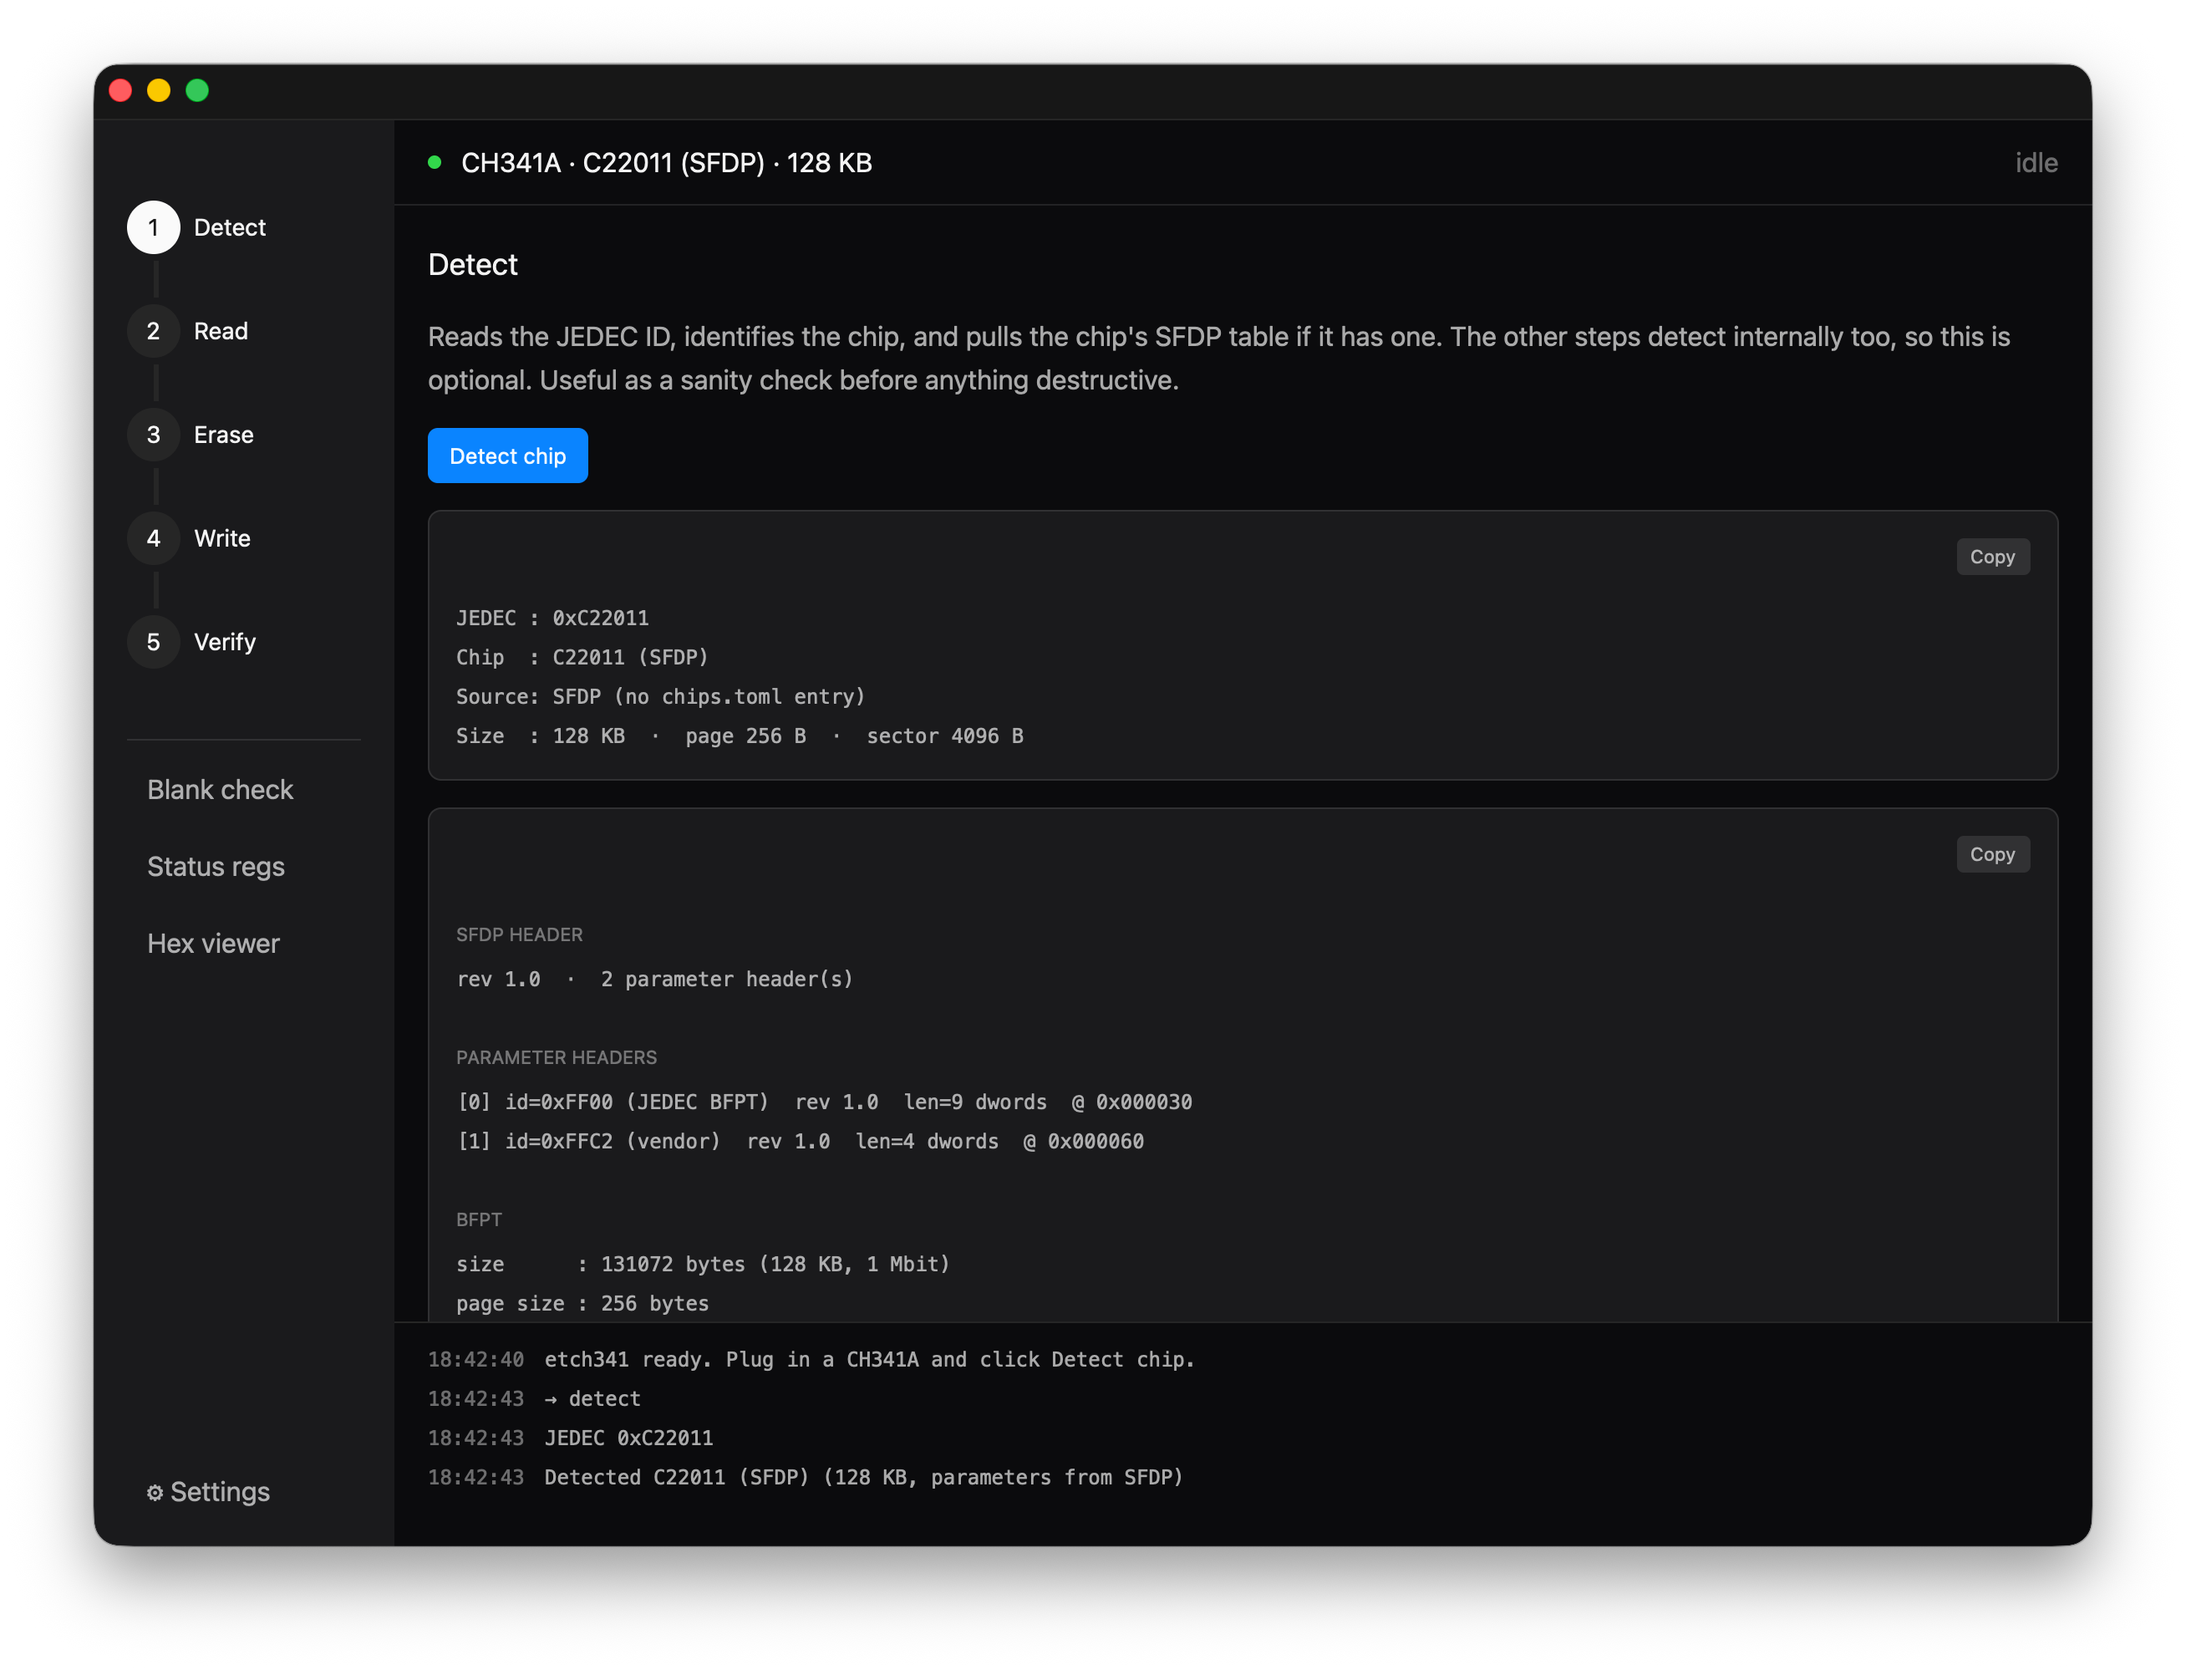
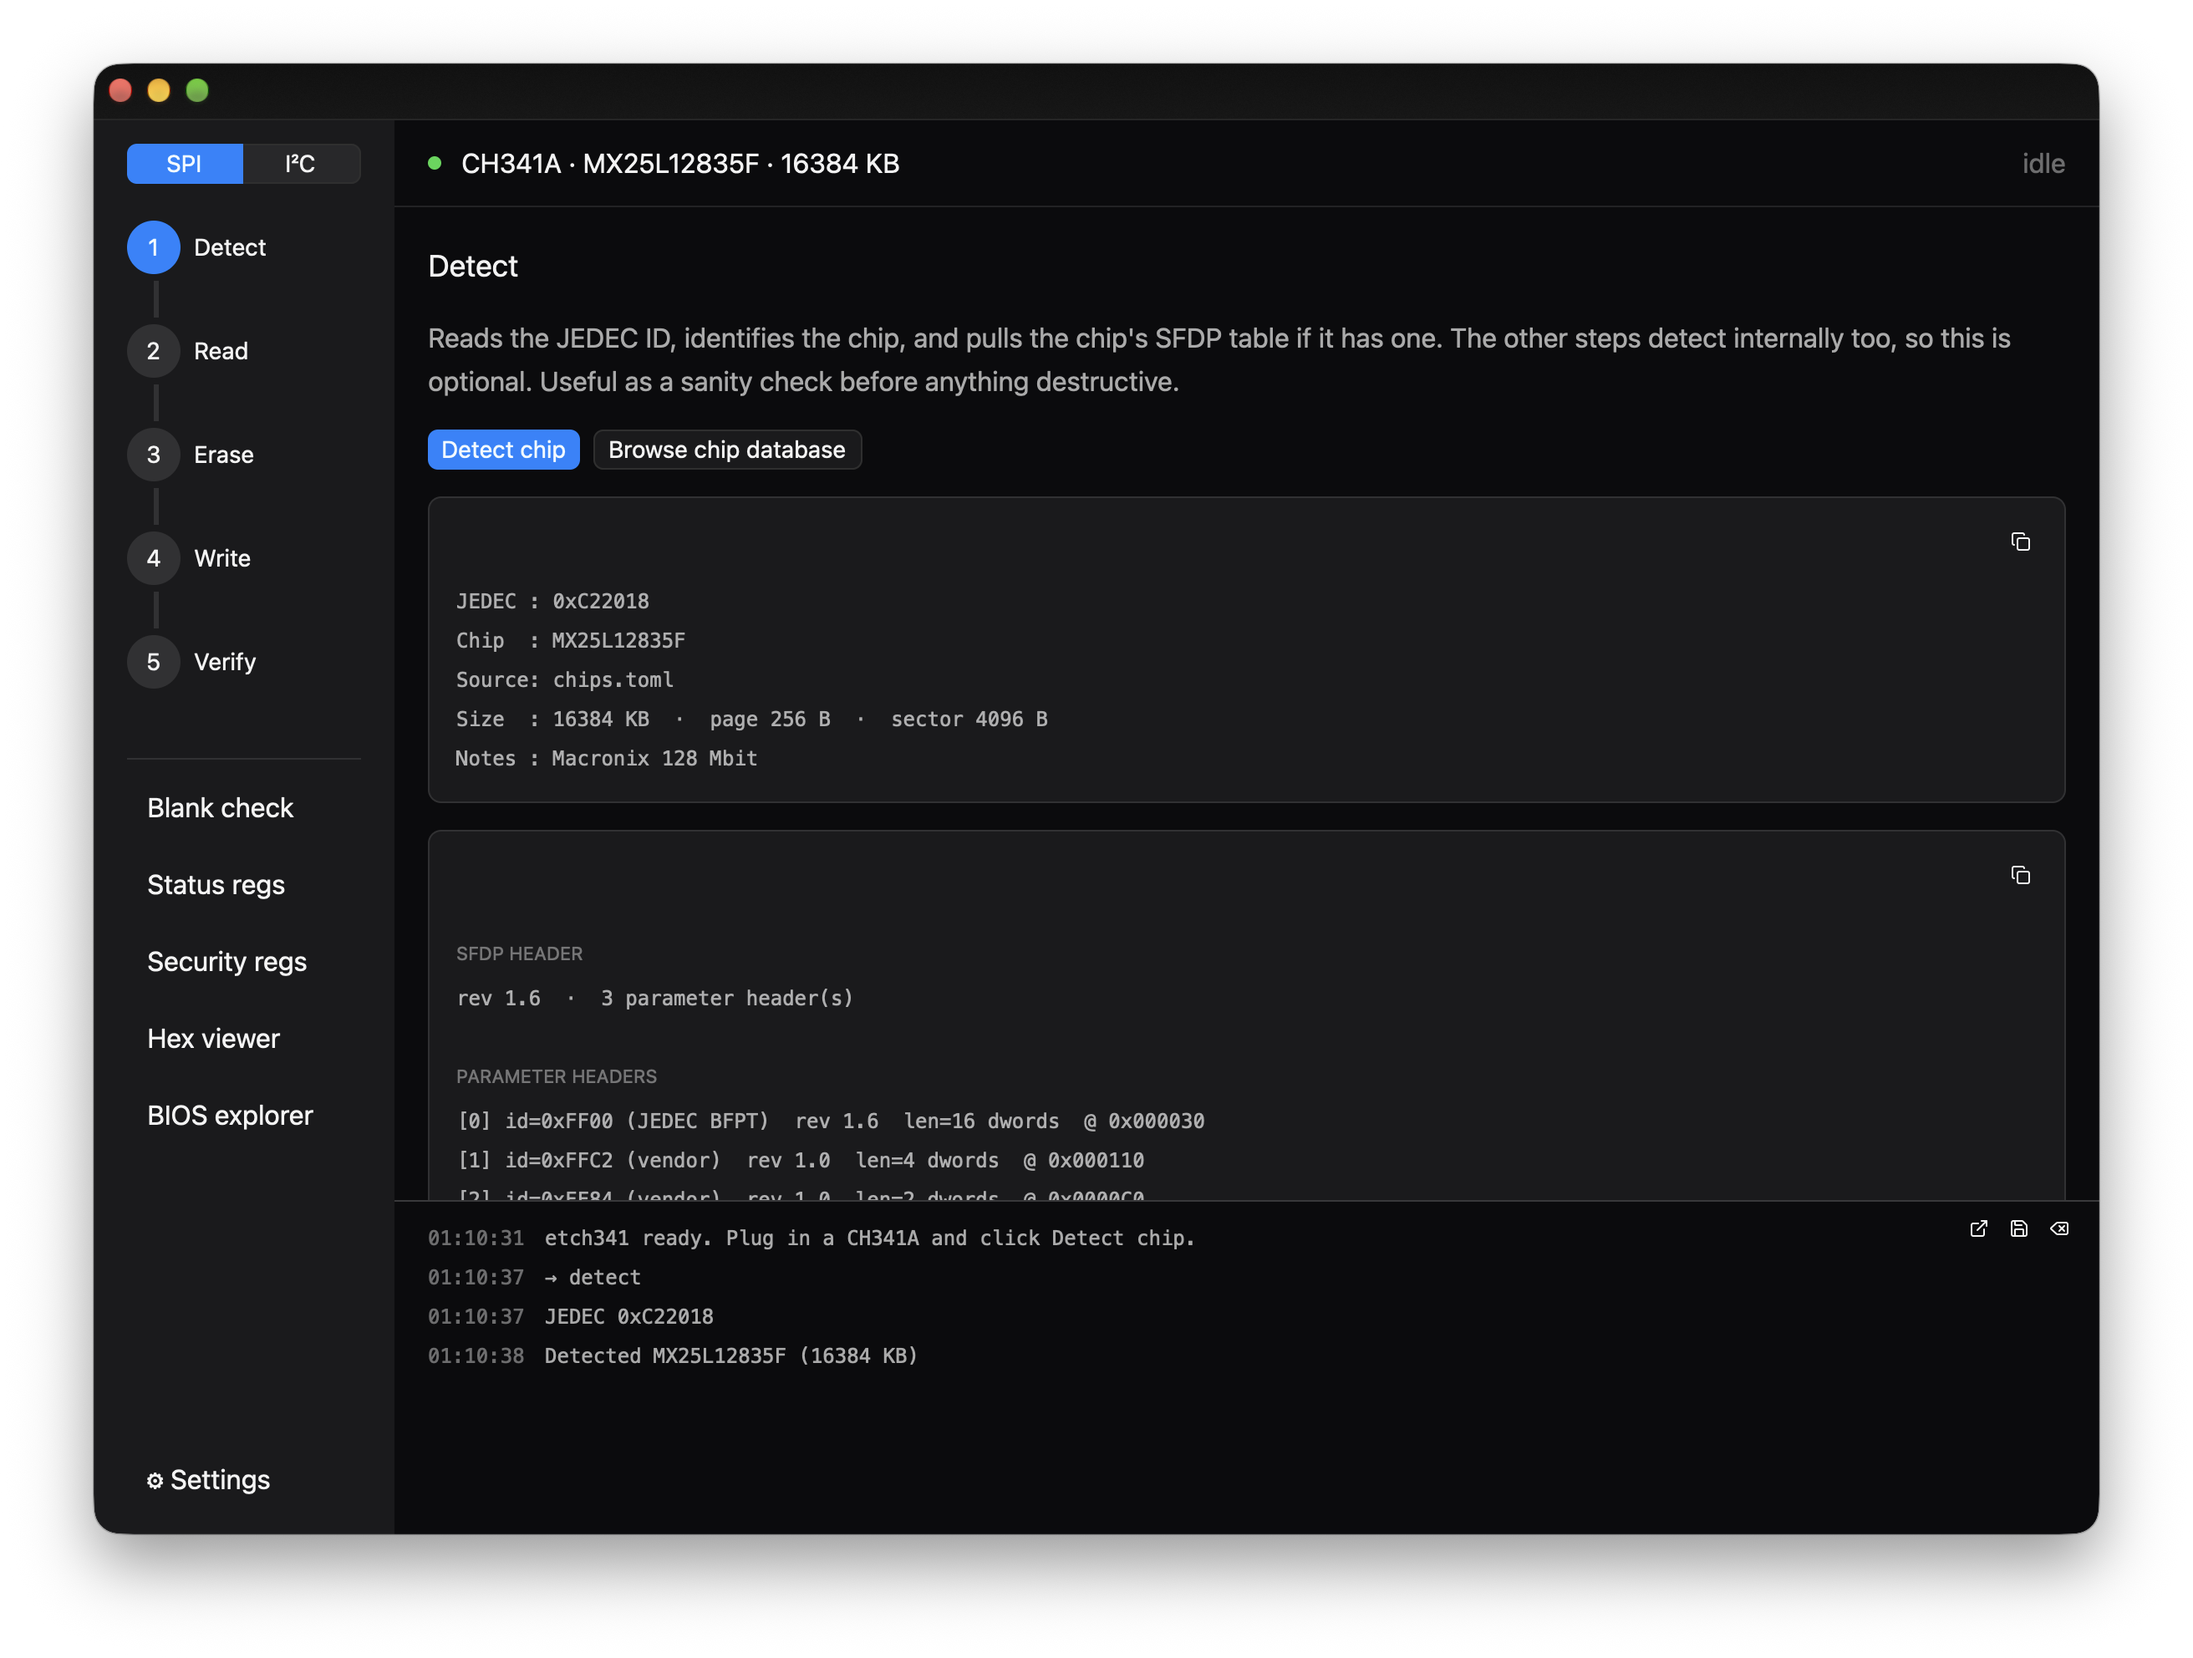
docs: new screenshots for the GPUI Kit look
Replaces the README / GUI-docs hero (docs/public/etch341.png) with the
current Detect pane and adds five shots to the GUI docs: a read in
progress with Cancel, the chip database table, the BIOS explorer, the
I²C Write pane and Settings → Programmer. Taken on macOS with stock
settings (default accent) and real hardware (MX25L12835F, 24C64).

diff --git a/docs/src/content/docs/usage/gui.md b/docs/src/content/docs/usage/gui.md
@@ -75,6 +75,8 @@ progress (when one is running):
 
 ## One operation at a time
 
+![A 16 MB read in progress: the header shows its progress and a Cancel button, and the operation buttons and SPI / I²C toggle are greyed out](/etch341/screenshots/read-progress.png)
+
 While a read, write, erase or other chip operation is running, the
 operation buttons and the SPI / I²C toggle are greyed out, and menu items
 or shortcuts that would start another one log "Busy: wait for the
@@ -119,6 +121,8 @@ host controller is actively pulling the line low. See
 [Wiring + voltage](/etch341/usage/wiring/) for the recovery paths.
 
 ### Chip database browser
+
+![The chip database browser: one sortable table of every bundled SPI flash and I²C EEPROM, with a vendor filter and search](/etch341/screenshots/chipdb.png)
 
 The **"Browse chip database"** button opens the full catalogue in its
 own window — every bundled SPI flash and I²C EEPROM chip, with a
@@ -212,6 +216,8 @@ visible, and the sizes also have controls in Settings → Appearance.
 
 ## BIOS explorer
 
+![The BIOS explorer with an Insyde image loaded: the menu-page tree on the left, Setup settings on the right](/etch341/screenshots/bios.png)
+
 The **BIOS explorer** pane reads a UEFI BIOS dump and reconstructs the
 firmware Setup menu — the same view as the CLI's
 [`bios settings`](/etch341/usage/cli/#firmware-inspection-uefi--ifd),
@@ -275,6 +281,8 @@ never sets the one-time lock bits.
 
 ## I²C EEPROMs
 
+![The I²C Write pane after writing and verifying an 8 KB file to a 24C64; the header shows the chip](/etch341/screenshots/i2c-write.png)
+
 The **SPI / I²C** toggle at the top of the sidebar switches the whole
 tool set to the 24Cxx EEPROM workflow. I²C has no JEDEC autodetect, so
 in place of a Detect step every I²C pane starts with a **chip
@@ -302,6 +310,8 @@ the bit-stuffed 24C04 / 08 / 16 are mock-tested but not yet confirmed
 on a chip. Full reference: [Usage → I²C](/etch341/usage/i2c/).
 
 ## Settings
+
+![Settings → Programmer: SPI clock, verify after write, I²C clock and address straps, and the read save location](/etch341/screenshots/settings.png)
 
 The pane is configuration-only — the activity log is hidden while
 Settings is the active pane so the body has room to breathe. It has
